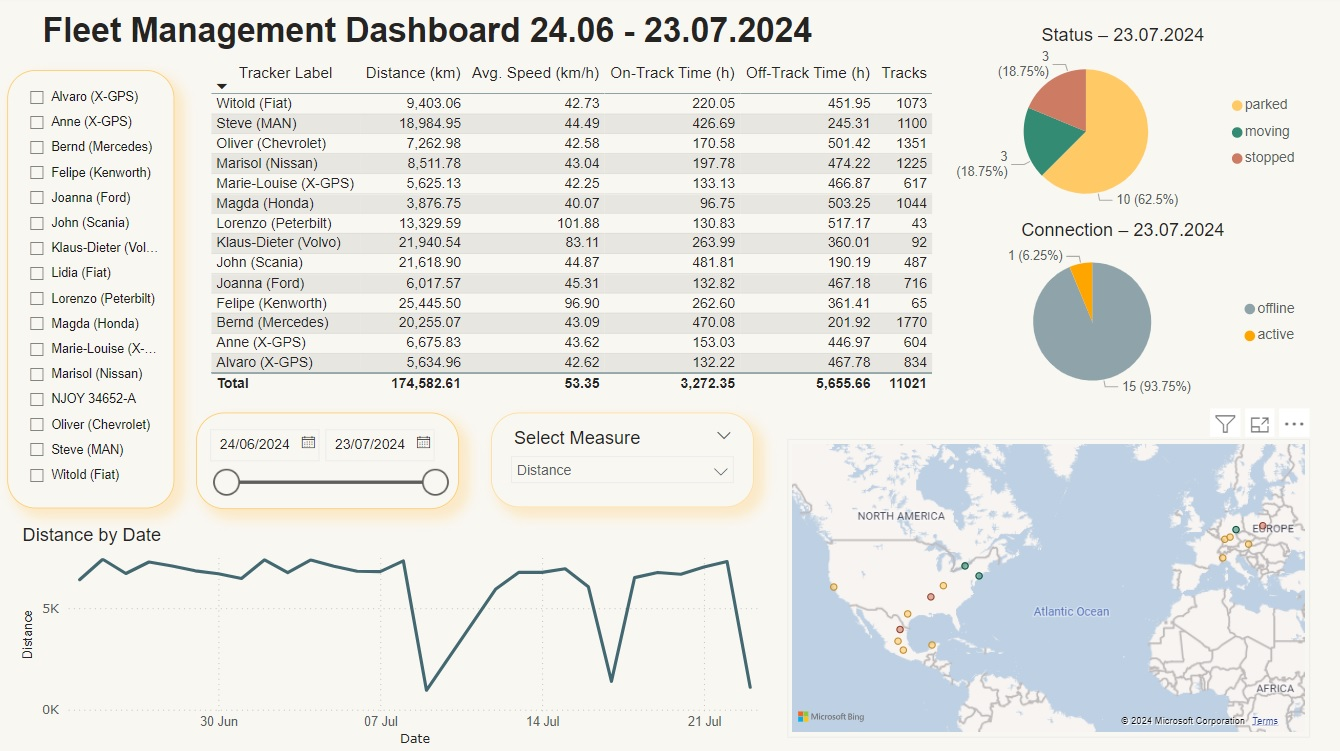
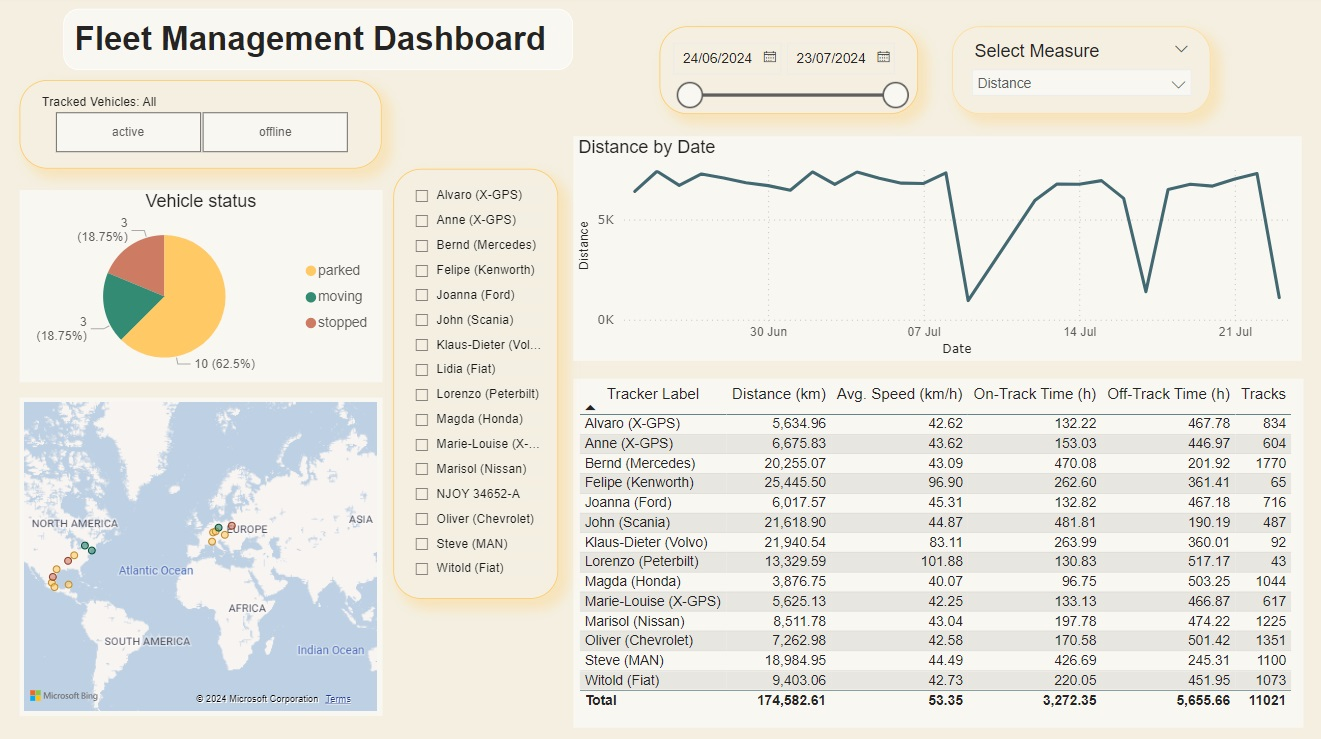
Update readme

diff --git a/4/README.md b/4/README.md
@@ -12,7 +12,7 @@ Create a dashboard for any BI tool (Power BI, SuperSet, Metabase, etc.) with sig
 
 After reading the [Navixy API description](https://developers.navixy.com/backend-api/getting-started/), I performed a series of API calls using Python to collect the most relevant information on the trackers (Navixy key entity, tracking device registered in our GPS monitoring system) available for the provided key. 
 
-It is possible to flow data to Power BI directly from the API (Get data -> Web -> Advanced) and transform it using Power Query.
+It is possible to flow data to Power BI directly from the API (**Get data** -> **Web** -> **Advanced**) and transform it using Power Query.
 
 ![image](api_to_powerbi0.jpg)
 
@@ -50,14 +50,14 @@ Interestingly, only one of the trackers turned out to be active; the others' las
 
 However, most of the data is partial and therefore not valuable for visualization.
 
-That's why I decided to use the tracks data to provide more information about the fleet on the dashboard. I retrieved the corresponding tracks for the last month, with regard to the date of the last update for the trackers. Although track data is available for only 14 out of 16 trackers, it allows for a detailed view of tracker activity: 
+That's why I decided to use the [tracks data](https://developers.navixy.com/backend-api/resources/tracking/track/#list) to provide more information about the fleet on the dashboard. I retrieved the corresponding tracks for the last month, with regard to the date of the last update for the trackers. Although track data is available for only 14 out of 16 trackers, it allows for a detailed view of tracker activity: 
 - the number of tracks per day,
 - duration (calculated based on start/end timestamps),
-- distance traveled (to be compared with mileage, accessed through /tracker/stats/mileage endpoint),
+- distance traveled (to be compared with mileage, accessed through [/tracker/stats/mileage](https://developers.navixy.com/backend-api/resources/tracking/tracker/stats/stats_mileage/) endpoint),
 - off-track (idle) time, and
 - average speed. 
 
-I conducted a short research and performed transformations to obtain the main statistics on the trackers' activity for the last month (2024-06-23 to 2024-07-23). See [track_calculations](track_calculations.ipynb) notebook.
+I conducted a short research and performed transformations to obtain the main statistics on the trackers' activity for the last month (2024-06-23 to 2024-07-23). See the [track_calculations](track_calculations.ipynb) notebook. The main challenge I faced was separating tracks that spanned more than one day into two parts. However, using the duration data and accurately calculated average speed for each track, I was able to determine the distance traveled for tracks spanning two days, broken down by each day.
 
 I compared the aggregated distances and mileage from the mileage endpoint and found discrepancies between the daily distances traveled and the daily mileage for each tracker. On days with discrepancies, the end address of one track and the start address of the next track don't always match, indicating some vehicle travels may not be recorded as tracks. I decided that mileage data would be redundant and unnecessary for this specific dashboard.
 
@@ -67,8 +67,11 @@ The datasets used for the dashboard are:
 - [trackers_states_viz.csv](../data/trackers_states_viz.csv): Contains tracker state data with unnecessary attributes removed.
 - [stats.csv](../data/stats.csv): Shows aggregated daily track data for each tracker.
 
-
 ![image](dashboard_full.jpg)
+
+The dashboard enables the fleet manager to view the current status of each tracker in the fleet, categorized by connection status: active or offline. It also displays the last update of the vehicle status—whether it is moving, stopped, or parked—along with its location shown on the map.
+
+The dashboard allows selecting multiple trackers (using Ctrl) by clicking on the map, selecting trackers by vehicle status, or choosing the tracker labels from the list. The manager can observe the main statistics for individual trackers or aggregated for several trackers in a table format and as a line chart by selecting the date range.
 
 When the dashboard was ready in my Power BI Desktop, I published it to Power BI ([see instructions here](https://learn.microsoft.com/en-us/power-bi/create-reports/desktop-upload-desktop-files)).
 Then I needed to [obtain the embed link](https://learn.microsoft.com/en-us/power-bi/collaborate-share/service-publish-to-web) to embed the dashboard into my newly created GitHub web page ([instructions](https://docs.github.com/en/pages/getting-started-with-github-pages/creating-a-github-pages-site) for [pages.github.com](https://pages.github.com/)).
